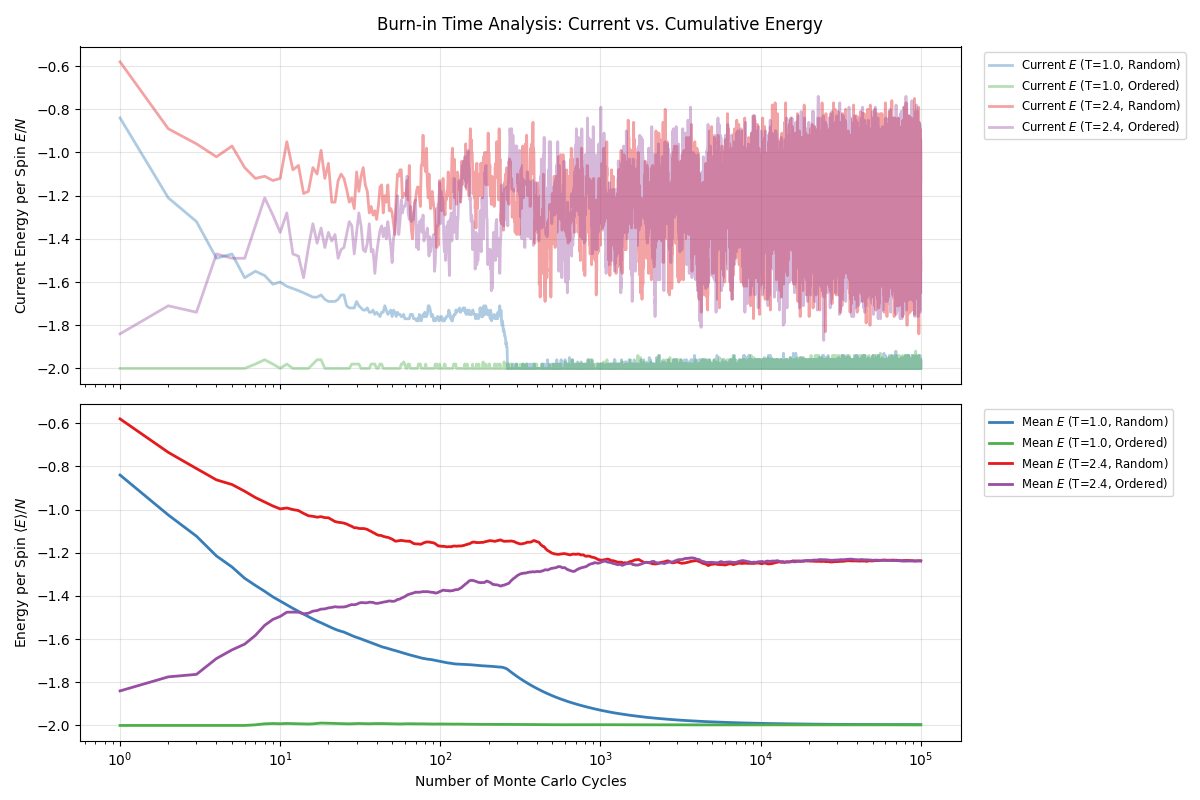
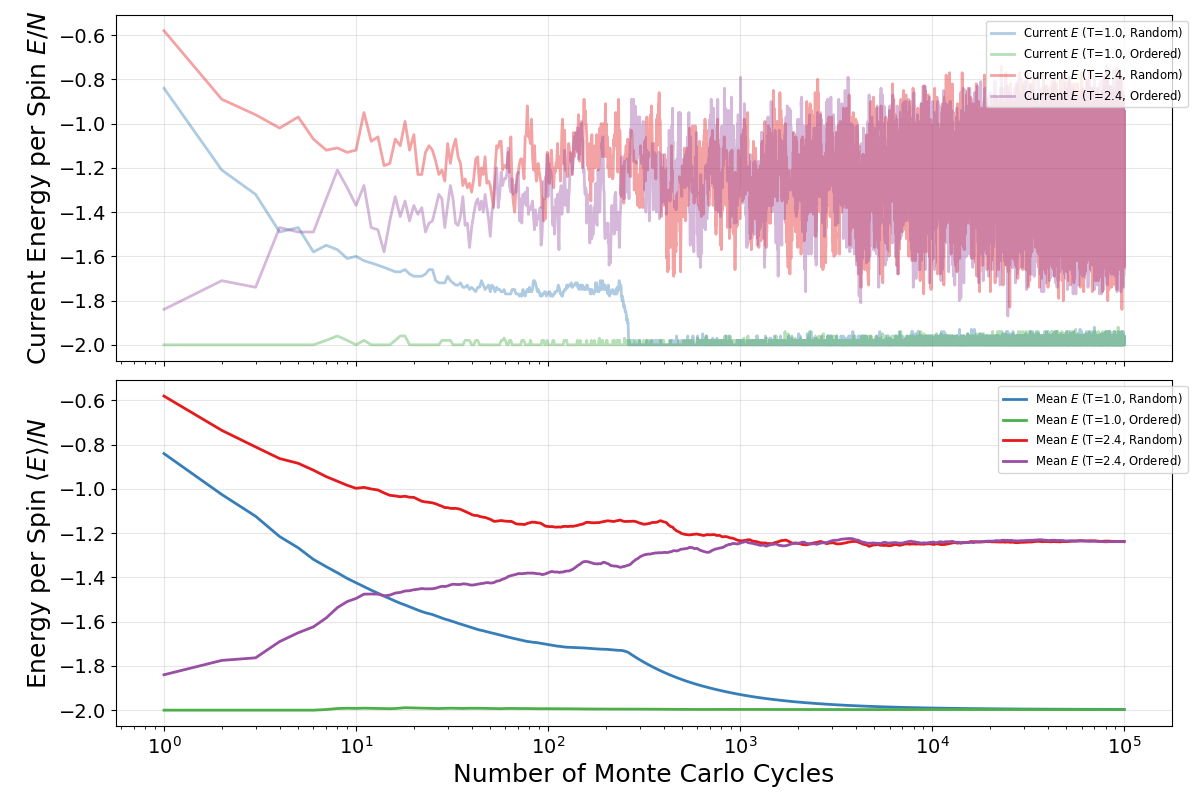
better readability

diff --git a/Lenz-Ising-Model/Code /task 5 data /plots5a.py b/Lenz-Ising-Model/Code /task 5 data /plots5a.py
@@ -2,10 +2,10 @@ import numpy as np
 import matplotlib.pyplot as plt 
 import pandas as pd
 
-filenames = ['task 5 data /burn_in_T1_ordered_per_spin.csv', 
-             'task 5 data /burn_in_T1_random_per_spin.csv', 
-             'task 5 data /burn_in_T24_ordered_per_spin.csv', 
-             'task 5 data /burn_in_T24_random_per_spin.csv']
+filenames = ['burn_in_T1_ordered_per_spin.csv', 
+             'burn_in_T1_random_per_spin.csv', 
+             'burn_in_T24_ordered_per_spin.csv', 
+             'burn_in_T24_random_per_spin.csv']
 
 # empty dic that can be filled 
 data = {}
@@ -57,17 +57,20 @@ ax2.plot(n_MC_cycles, mean_eps_T24_u, '-', linewidth=2.0, color='#e41a1c', label
 ax2.plot(n_MC_cycles, mean_eps_T24_o, '-', linewidth=2.0, color='#984ea3', label='Mean $E$ (T=2.4, Ordered)')
 
 #formatting for readablity 
-ax1.set_ylabel('Current Energy per Spin $E/N$')
-ax2.set_ylabel('Energy per Spin $\\langle E \\rangle / N$')
-ax2.set_xlabel('Number of Monte Carlo Cycles')
-fig.suptitle('Burn-in Time Analysis: Current vs. Cumulative Energy')
+ax1.set_ylabel('Current Energy per Spin $E/N$', fontsize = '18')
+ax2.set_ylabel('Energy per Spin $\\langle E \\rangle / N$', fontsize = '18')
+ax2.set_xlabel('Number of Monte Carlo Cycles', fontsize = '18')
+#no title just caption
+#fig.suptitle('Burn-in Time Analysis: Current vs. Cumulative Energy')
+ax1.tick_params(axis='both', labelsize=14)
+ax2.tick_params(axis='both', labelsize=14)
 
 #logarithmic x axis 
 ax2.set_xscale('log')
 
 #legend outside the plot, nothing will be covered
-ax1.legend(loc='upper left', bbox_to_anchor=(1.02, 1), fontsize='small', ncol=1)
-ax2.legend(loc='upper left', bbox_to_anchor=(1.02, 1), fontsize='small', ncol=1)
+ax1.legend(loc='upper right', bbox_to_anchor=(1.02, 1), fontsize='small', ncol=1)
+ax2.legend(loc='upper right', bbox_to_anchor=(1.02, 1), fontsize='small', ncol=1)
 
 ax1.grid(True, alpha=0.3)
 ax2.grid(True, alpha=0.3)
